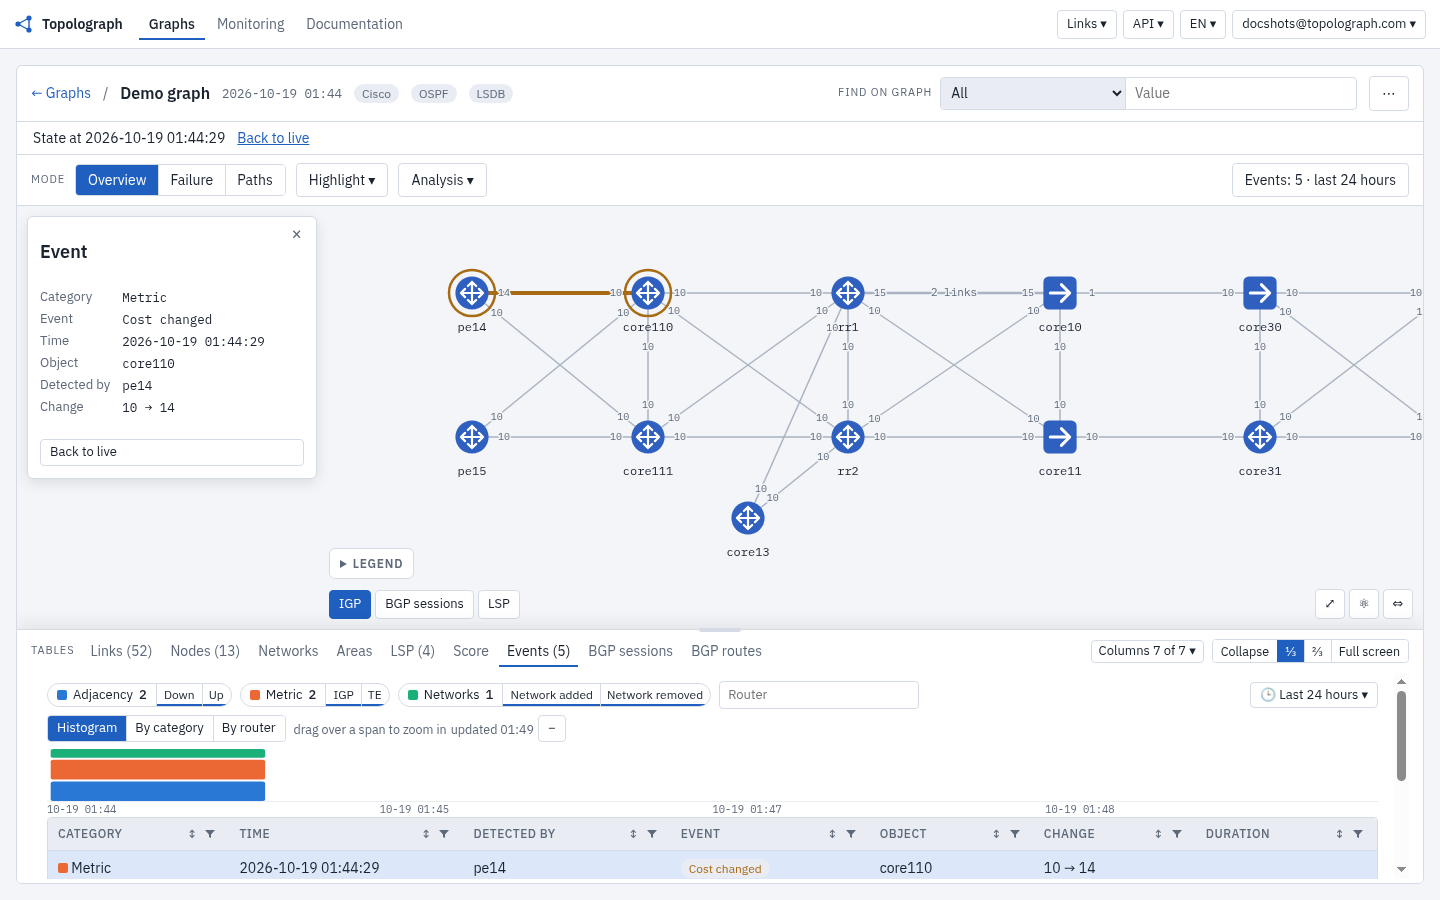
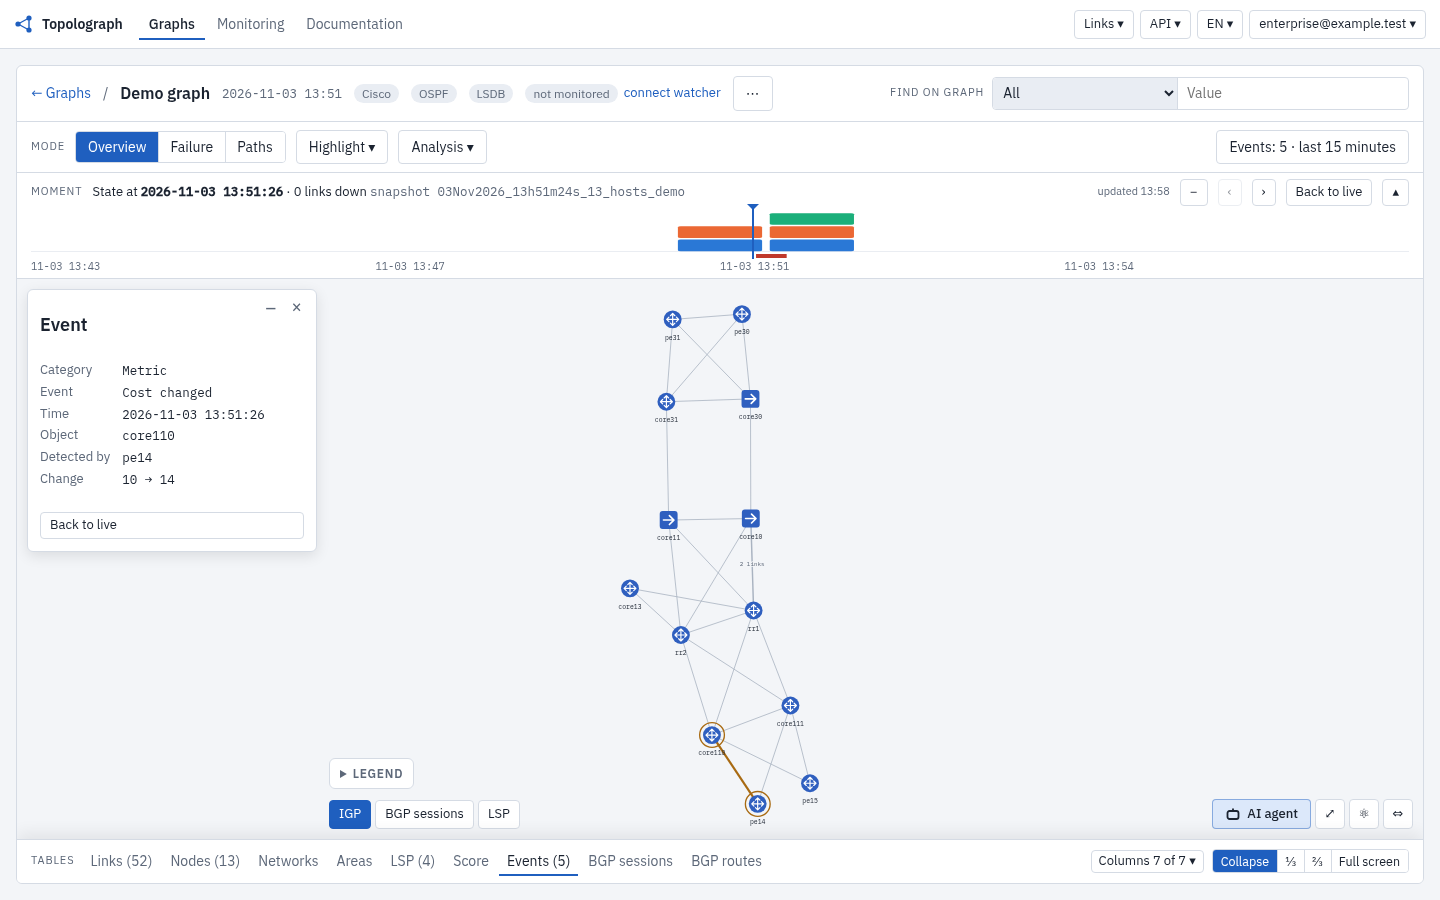
Docs: Moment strip on the graph page

diff --git a/docs/monitoring/index.ru.md b/docs/monitoring/index.ru.md
@@ -41,13 +41,17 @@
 
 События watcher попадают на граф и на его шкалу времени: на странице Monitoring и во вкладке Events графа.
 
-![События на графе и на шкале времени](../static/ui/events-timeline.png)
+На странице графа сети с watcher между панелью режимов и холстом находится полоса **Момент**. В ней показаны гистограмма событий с накоплением, красная полоса на интервалах, когда соседства были в состоянии down, и пунктирная линия в момент каждого перезапуска watcher. При перетаскивании курсора граф перерисовывается прямо в браузере, а при отпускании открывается выбранный момент, так что упавший линк рисуется таким, каким он был. Кнопки переходят к предыдущему и следующему событию и отдаляют период, **К live** возвращает к текущему состоянию, а стрелка справа сворачивает полосу в тонкую дорожку. Вкладка Events сохраняет фильтры, период и таблицу. Полоса доступна в редакции Enterprise.
+
+![Полоса «Момент» над графом: гистограмма событий и курсор на текущем состоянии](../static/ui/moment-strip.png)
 
 ![Monitoring: события по категориям за период](../static/ui/monitoring-histogram.png)
 
 ![Поиск по событиям: таблица с фильтром по роутеру, типу события и периоду](../static/ui/event-search.png)
 
-![Граф в момент события](../static/ui/graph-at-event.png)
+![Граф в момент внутри интервала down: упавшее соседство нарисовано красной пунктирной линией](../static/ui/moment-down.png)
+
+![Полоса «Момент», свёрнутая в тонкую дорожку, с красным интервалом down](../static/ui/moment-collapsed.png)
 
 ![Изменение стоимости линка, подсвеченное на графе](../static/ui/cost-change-on-graph.png)
 

diff --git a/docs/monitoring/index.fr.md b/docs/monitoring/index.fr.md
@@ -43,13 +43,17 @@ architecture :
 
 Les événements d'un watcher apparaissent sur le graphe et sur sa chronologie, dans la page Monitoring et dans l'onglet Events d'un graphe.
 
-![Événements sur le graphe et sur la chronologie](../static/ui/events-timeline.png)
+Sur la page du graphe d'un réseau surveillé, la bande **Instant** se trouve entre la barre des modes et le canevas. Elle empile l'histogramme des événements, marque en rouge les périodes où des adjacences étaient down et trace une ligne en pointillés à chaque redémarrage du watcher. Le glissement du curseur redessine le graphe dans le navigateur ; le relâchement ouvre cet instant, et un lien qui était down est dessiné tel qu'il était. Les boutons passent à l'événement précédent ou suivant et élargissent la période, **Retour au direct** revient à l'état courant et la flèche à droite replie la bande en une fine piste. L'onglet Events conserve ses filtres, la période et le tableau. La bande requiert l'édition Enterprise.
+
+![La bande Instant au-dessus du graphe : histogramme des événements, curseur sur l'état courant](../static/ui/moment-strip.png)
 
 ![Monitoring : événements par catégorie sur la période](../static/ui/monitoring-histogram.png)
 
 ![Recherche d'événements : le tableau filtré par routeur, type d'événement et période](../static/ui/event-search.png)
 
-![Le graphe au moment d'un événement](../static/ui/graph-at-event.png)
+![Le graphe à un instant situé dans un intervalle down : l'adjacence qui était down est une ligne rouge en pointillés](../static/ui/moment-down.png)
+
+![La bande Instant repliée en une fine piste, avec la période rouge de l'intervalle down](../static/ui/moment-collapsed.png)
 
 ![Un changement de coût de lien mis en évidence sur le graphe](../static/ui/cost-change-on-graph.png)
 

diff --git a/docs/monitoring/index.es.md b/docs/monitoring/index.es.md
@@ -40,13 +40,17 @@ Hay tres Watchers, uno por protocolo, construidos sobre la misma arquitectura:
 
 Los eventos de un watcher aparecen en el grafo y en su línea de tiempo, en la página Monitoring y en la pestaña Events de un grafo.
 
-![Eventos en el grafo y en la línea de tiempo](../static/ui/events-timeline.png)
+En la página del grafo de una red monitorizada, la franja **Momento** está entre la barra de modos y el lienzo. Apila el histograma de eventos, marca en rojo los tramos en que había adyacencias caídas (down) y dibuja una línea discontinua en cada reinicio del watcher. Al arrastrar el cursor, el grafo se redibuja en el navegador; al soltarlo, se abre ese momento, y un enlace que estaba caído se dibuja como estaba. Los botones pasan al evento anterior o al siguiente y alejan el periodo, **Volver al estado actual** regresa al estado vigente y la flecha de la derecha contrae la franja en una pista fina. La pestaña Events conserva sus filtros, el periodo y la tabla. La franja requiere la edición Enterprise.
+
+![La franja Momento sobre el grafo: histograma de eventos con el cursor en el estado actual](../static/ui/moment-strip.png)
 
 ![Monitoring: eventos por categoría en el periodo](../static/ui/monitoring-histogram.png)
 
 ![Búsqueda de eventos: la tabla filtrada por router, tipo de evento y periodo](../static/ui/event-search.png)
 
-![El grafo en el momento de un evento](../static/ui/graph-at-event.png)
+![El grafo en un momento dentro de un intervalo down: la adyacencia caída se dibuja como una línea roja discontinua](../static/ui/moment-down.png)
+
+![La franja Momento contraída en una pista fina, con el tramo rojo del intervalo down](../static/ui/moment-collapsed.png)
 
 ![Un cambio de coste de enlace resaltado en el grafo](../static/ui/cost-change-on-graph.png)
 

diff --git a/docs/monitoring/index.md b/docs/monitoring/index.md
@@ -40,13 +40,17 @@ There are three Watchers, one per protocol, built on the same architecture:
 
 A watcher's events land on the graph and on its timeline, in the Monitoring page and in the Events tab of a graph.
 
-![Events on the graph and on the timeline](../static/ui/events-timeline.png)
+On the graph page of a watched network, the **Moment** strip sits between the mode toolbar and the canvas. It stacks the events histogram, marks in red the spans where adjacencies were down, and draws a dashed line at every watcher restart. Dragging the cursor redraws the graph in the browser; releasing it opens that moment, so a link that was down is drawn as it was. The buttons step to the previous or next event and zoom the period out, **Back to live** returns to the current state, and the arrow at the right collapses the strip to a thin track. The Events tab keeps its filters, period and table. The strip needs the Enterprise edition.
+
+![The Moment strip above the graph: events histogram with the cursor at the current state](../static/ui/moment-strip.png)
 
 ![Monitoring: events by category over the period](../static/ui/monitoring-histogram.png)
 
 ![Event search: the table filtered by router, event type and period](../static/ui/event-search.png)
 
-![The graph at the moment of an event](../static/ui/graph-at-event.png)
+![The graph at a moment inside a down interval: the adjacency that was down is a dashed red line](../static/ui/moment-down.png)
+
+![The Moment strip collapsed to a thin track, with the red span of the down interval](../static/ui/moment-collapsed.png)
 
 ![A link cost change highlighted on the graph](../static/ui/cost-change-on-graph.png)
 

diff --git a/docs/monitoring/index.pt.md b/docs/monitoring/index.pt.md
@@ -41,13 +41,17 @@ arquitetura:
 
 Os eventos de um watcher aparecem no grafo e na sua linha do tempo, na página Monitoring e na aba Events de um grafo.
 
-![Eventos no grafo e na linha do tempo](../static/ui/events-timeline.png)
+Na página do grafo de uma rede monitorada, a faixa **Momento** fica entre a barra de modos e o canvas. Ela empilha o histograma de eventos, marca em vermelho os intervalos em que adjacências estiveram down e desenha uma linha tracejada em cada reinício do watcher. Ao arrastar o cursor, o grafo é redesenhado no navegador; ao soltá-lo, esse momento é aberto, e um link que estava down aparece como estava. Os botões passam ao evento anterior ou ao próximo e afastam o período, **Voltar ao vivo** retorna ao estado atual e a seta à direita recolhe a faixa em uma trilha fina. A aba Events mantém seus filtros, o período e a tabela. A faixa exige a edição Enterprise.
+
+![A faixa Momento acima do grafo: histograma de eventos com o cursor no estado atual](../static/ui/moment-strip.png)
 
 ![Monitoring: eventos por categoria no período](../static/ui/monitoring-histogram.png)
 
 ![Busca de eventos: a tabela filtrada por roteador, tipo de evento e período](../static/ui/event-search.png)
 
-![O grafo no momento de um evento](../static/ui/graph-at-event.png)
+![O grafo em um momento dentro de um intervalo down: a adjacência que estava down é uma linha vermelha tracejada](../static/ui/moment-down.png)
+
+![A faixa Momento recolhida em uma trilha fina, com o trecho vermelho do intervalo down](../static/ui/moment-collapsed.png)
 
 ![Uma mudança de custo de enlace destacada no grafo](../static/ui/cost-change-on-graph.png)
 

diff --git a/README.md b/README.md
@@ -60,7 +60,7 @@ Switching off the core10 to core30 link on the model recalculates SPF: traffic m
 
 ## Continuous monitoring
 
-The collector (watcher) receives routing protocol updates and passes on events about topology changes. It joins the network through an IGP adjacency over GRE, or through BGP-LS (OSPF and IS-IS), or through BMP (BGP). Each event arrives in Topolograph with a timestamp, and the timeline replays the state of the network at any moment: the T0 snapshot and any later state can be compared.
+The collector (watcher) receives routing protocol updates and passes on events about topology changes. It joins the network through an IGP adjacency over GRE, or through BGP-LS (OSPF and IS-IS), or through BMP (BGP). Each event arrives in Topolograph with a timestamp, and the Moment strip above the graph replays the state of the network at any moment: the T0 snapshot and any later state can be compared.
 
 | Watcher | Protocols | Modes | Edition |
 |---|---|---|---|
@@ -69,7 +69,7 @@ The collector (watcher) receives routing protocol updates and passes on events a
 | [bmpwatcher](https://github.com/Vadims06/bmpwatcher) | BGP, EVPN | BMP, Topology only | Community |
 | [bmpwatcher](https://github.com/Vadims06/bmpwatcher) | BGP, EVPN | BMP, Topology + events | Enterprise |
 
-![Collector events on the graph and on the timeline](docs/static/ui/events.png)
+![The Moment strip above the graph: events histogram, down intervals in red, cursor at the current state](docs/static/ui/moment-strip.png)
 
 ![BGP sessions over the OSPF graph](docs/static/ui/bgp-sessions.png)
 

diff --git a/docs/monitoring/index.zh.md b/docs/monitoring/index.zh.md
@@ -39,13 +39,17 @@
 
 watcher 的事件显示在图及其时间线上：Monitoring 页面和图的 Events 标签页中。
 
-![图和时间线上的事件](../static/ui/events-timeline.png)
+在有 watcher 的网络的图页面上，**时刻**条位于模式工具栏和画布之间。它显示堆叠的事件直方图，用红色标出邻接处于 down 状态的区间，并在每次 watcher 重启处画一条虚线。拖动光标时，图会在浏览器中重绘；松开后打开该时刻，因此当时断开的链路会按当时的样子绘制。按钮可跳到上一个或下一个事件并缩小时间段，**返回实时**回到当前状态，右侧的箭头把该条收起为一条细轨道。Events 标签页保留其过滤器、时间段和表格。该条需要 Enterprise 版。
+
+![图上方的时刻条：事件直方图，光标位于当前状态](../static/ui/moment-strip.png)
 
 ![Monitoring：按类别显示时间段内的事件](../static/ui/monitoring-histogram.png)
 
 ![事件搜索：按路由器、事件类型和时间段筛选的表格](../static/ui/event-search.png)
 
-![事件发生时刻的图](../static/ui/graph-at-event.png)
+![处于 down 区间内某一时刻的图：断开的邻接以红色虚线绘制](../static/ui/moment-down.png)
+
+![收起为细轨道的时刻条，带有 down 区间的红色区段](../static/ui/moment-collapsed.png)
 
 ![图上高亮显示的链路开销变化](../static/ui/cost-change-on-graph.png)
 

diff --git a/docs/monitoring/ospf-watcher.ru.md b/docs/monitoring/ospf-watcher.ru.md
@@ -25,11 +25,9 @@
   входит/выходит из режима **max-metric** (stub-маршрутизатор по RFC 3137 - все транзитные линки анонсируются с максимальной метрикой, чтобы увести
   от них транзитный трафик; аналог бита overload в IS-IS для OSPF)
 
-![События на графе и на шкале времени](../static/ui/events-timeline.png)
+![Полоса «Момент» над графом: гистограмма событий и курсор на текущем состоянии](../static/ui/moment-strip.png)
 
 ![Изменение стоимости линка, подсвеченное на графе](../static/ui/cost-change-on-graph.png)
-
-![События по роутерам на шкале времени](../static/ui/events-by-router.png)
 
 ## Подключение
 

diff --git a/docs/monitoring/ospf-watcher.fr.md b/docs/monitoring/ospf-watcher.fr.md
@@ -27,11 +27,9 @@ donc le démarrage est rapide.
   tous les liens de transit annoncés à la métrique maximale pour détourner
   le trafic de transit ; l'équivalent OSPF du bit overload d'IS-IS)
 
-![Événements sur le graphe et sur la chronologie](../static/ui/events-timeline.png)
+![La bande Instant au-dessus du graphe : histogramme des événements, curseur sur l'état courant](../static/ui/moment-strip.png)
 
 ![Un changement de coût de lien mis en évidence sur le graphe](../static/ui/cost-change-on-graph.png)
-
-![Événements regroupés par routeur sur la chronologie](../static/ui/events-by-router.png)
 
 ## Le connecter
 

diff --git a/docs/monitoring/ospf-watcher.zh.md b/docs/monitoring/ospf-watcher.zh.md
@@ -22,11 +22,9 @@ OSPF 控制平面——记录每一次变化，并/或（通过 Logstash 或 Flu
   router——所有 transit 链路都以最大度量通告，以将 transit 流量引导离开该
   路由器；这是 OSPF 中与 IS-IS overload bit 相对应的机制）
 
-![图和时间线上的事件](../static/ui/events-timeline.png)
+![图上方的时刻条：事件直方图，光标位于当前状态](../static/ui/moment-strip.png)
 
 ![图上高亮显示的链路开销变化](../static/ui/cost-change-on-graph.png)
-
-![在时间线上按路由器分组的事件](../static/ui/events-by-router.png)
 
 ## 建立连接
 

diff --git a/docs/monitoring/ospf-watcher.es.md b/docs/monitoring/ospf-watcher.es.md
@@ -27,11 +27,9 @@ rápido.
   de tránsito se anuncian con la métrica máxima para desviar el tráfico de
   tránsito; el equivalente en OSPF del overload bit de IS-IS)
 
-![Eventos en el grafo y en la línea de tiempo](../static/ui/events-timeline.png)
+![La franja Momento sobre el grafo: histograma de eventos con el cursor en el estado actual](../static/ui/moment-strip.png)
 
 ![Un cambio de coste de enlace resaltado en el grafo](../static/ui/cost-change-on-graph.png)
-
-![Eventos agrupados por router en la línea de tiempo](../static/ui/events-by-router.png)
 
 ## Conectarlo
 

diff --git a/docs/monitoring/ospf-watcher.md b/docs/monitoring/ospf-watcher.md
@@ -25,11 +25,9 @@ starts fast.
   maximum metric to steer transit traffic away; the OSPF analog of the IS-IS
   overload bit)
 
-![Events on the graph and on the timeline](../static/ui/events-timeline.png)
+![The Moment strip above the graph: events histogram with the cursor at the current state](../static/ui/moment-strip.png)
 
 ![A link cost change highlighted on the graph](../static/ui/cost-change-on-graph.png)
-
-![Events grouped by router on the timeline](../static/ui/events-by-router.png)
 
 ## Connecting it
 
